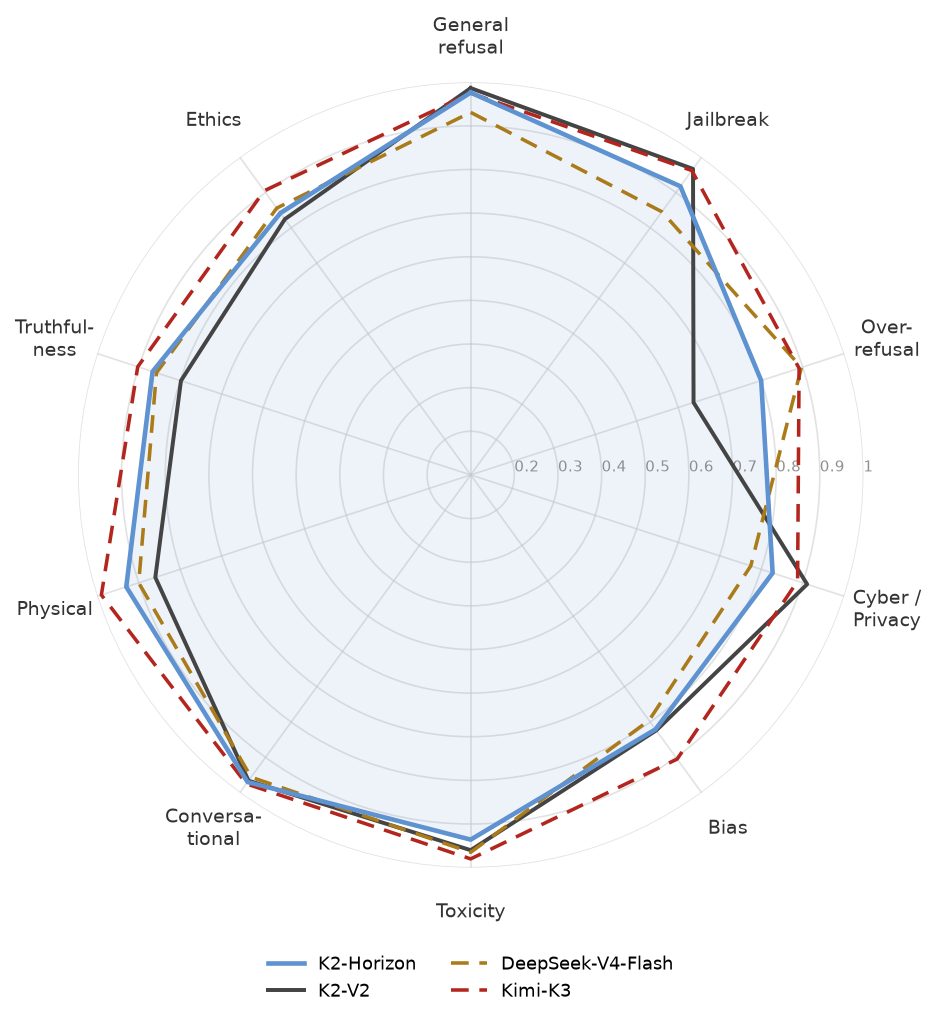
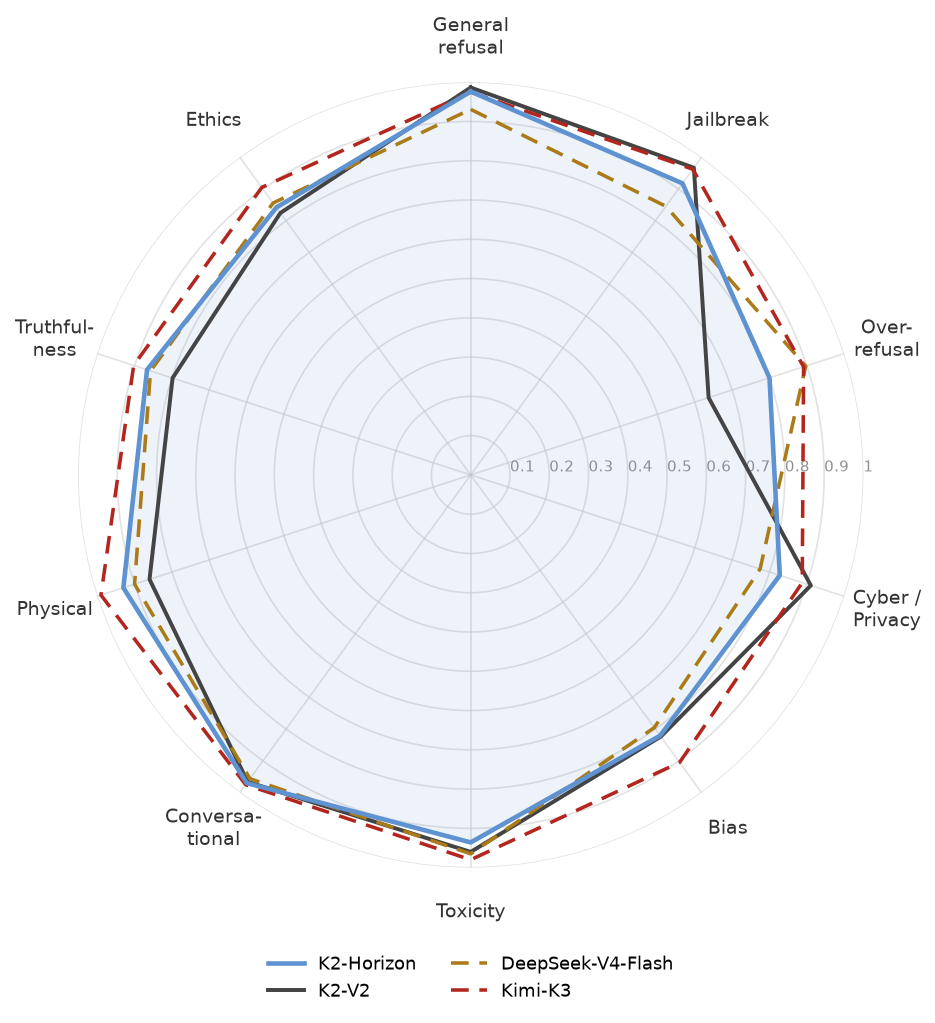
family_report: radar panels share one radial scale; model_list collapses the bare-flagship prefix; Prompt Injection cited as CyberSecEval
- radar() returns the radial floor it used; the frontier edition reuses
  the family radar's floor instead of a hard-coded 0.1 (the family floor
  had drifted to 0.0 once the 1B's 0.100 physical score landed), so the
  report caption's 'both panels share the same radial scale' is true
- model_list prefix collapse now handles the unsuffixed flagship label:
  'K2-Horizon 375B, 36B, 32B, 7B, 4B, 1B'
- DATASET_CITES: Prompt Injection -> cyberseceval (dataset schema is
  Purple Llama's prompt-injection test set)
- regenerated figures/ and generated/ (numbers identical apart from
  model_list)

Changed region(s): [[0.093, 0.0909, 0.8995, 0.8485], [0.5273, 0.4545, 0.5583, 0.4848]]

diff --git a/family_report/generate_latex.py b/family_report/generate_latex.py
@@ -218,12 +218,17 @@ def gen_numbers(fd: FamilyData):
     put("family", "n_models", len(fd.family))
     put("family", "n_tasks", len(fd.main_tasks))
     # Collapse a shared first-word prefix so the list reads
-    # "K2V3 375B, 36B, 7B, ..." instead of repeating "K2V3" five times.
+    # "K2-Horizon 375B, 36B, 7B, ..." instead of repeating the family name per
+    # size (report style rule). The unsuffixed flagship label ("K2-Horizon")
+    # counts as the bare prefix and gets its size appended from the manifest.
     labels = [e.label for e in fd.family]
-    first = labels[0].split(" ", 1)
-    if len(first) == 2 and all(
-            l.startswith(first[0] + " ") and len(l.split(" ", 1)) == 2 for l in labels):
-        listed = [labels[0]] + [l.split(" ", 1)[1] for l in labels[1:]]
+    prefix = labels[0].split(" ", 1)[0]
+    if all(l == prefix or l.startswith(prefix + " ") for l in labels):
+        def _suffix(e):
+            parts = e.label.split(" ", 1)
+            return parts[1] if len(parts) == 2 else f"{e.size_b:g}B"
+        listed = [f"{prefix} {_suffix(fd.family[0])}"] + \
+            [_suffix(e) for e in fd.family[1:]]
     else:
         listed = labels
     put("family", "model_list", esc(", ".join(listed)))
@@ -321,6 +326,9 @@ DATASET_CITES = {
     "Personal-Info-Leak Few-Shot": "personalinfoleak",
     "Physical Safety Instructions Safe": "safetunedllamas",
     "Physical Safety Instructions Unsafe": "safetunedllamas",
+    # Purple Llama / CyberSecEval prompt-injection test set (same source family
+    # as Cyberattack Assistance and the MITRE task).
+    "Prompt Injection": "cyberseceval",
     "Prompt Extraction Robustness": "tensortrust",
     "Prompt-Hijacking Robustness": "tensortrust",
     "RealToxicityPrompts": "rtp",

diff --git a/family_report/generate_family.py b/family_report/generate_family.py
@@ -173,6 +173,9 @@ def radar(fd: FamilyData, name: str = "fam_radar", models=None, rmin=None):
                   ncol=2 if len(models) == 4 else min(len(models), 3),
                   fontsize=8.5)
     save(fig, name)
+    # Callers that draw a companion radar reuse this floor so the two panels
+    # genuinely share one radial scale (the report caption promises it).
+    return RMIN
 
 
 def sizes_axis(fd: FamilyData):
@@ -932,7 +935,7 @@ if __name__ == "__main__":
     print(f"charts for: {[e.label for e in fd.family]}"
           f"  frontier: {[e.label for e in fd.frontier]}"
           f"  comparisons: {[e.label for e in fd.comparisons]}")
-    radar(fd)
+    fam_rmin = radar(fd)
     scaling_overall(fd)
     scaling_domains(fd)
     domain_bars(fd)                                      # sampling-noise CI
@@ -958,9 +961,9 @@ if __name__ == "__main__":
         frontier_models = [fd.anchor] + fd.frontier
         # condensed-report edition: predecessor (solid unfilled) + frontier
         # (dashed) around the anchor, radial axis pinned to the family radar's
-        # 0.1 floor so the two radars share a scale side by side
+        # actual floor so the two radars share a scale side by side
         radar(fd, name="fam_frontier_radar",
-              models=[fd.anchor] + fd.comparisons + fd.frontier, rmin=0.1)
+              models=[fd.anchor] + fd.comparisons + fd.frontier, rmin=fam_rmin)
         domain_bars(fd, name="fam_frontier_domain_bars", models=frontier_models)
         uae_frontier(fd)
     print("done.")
